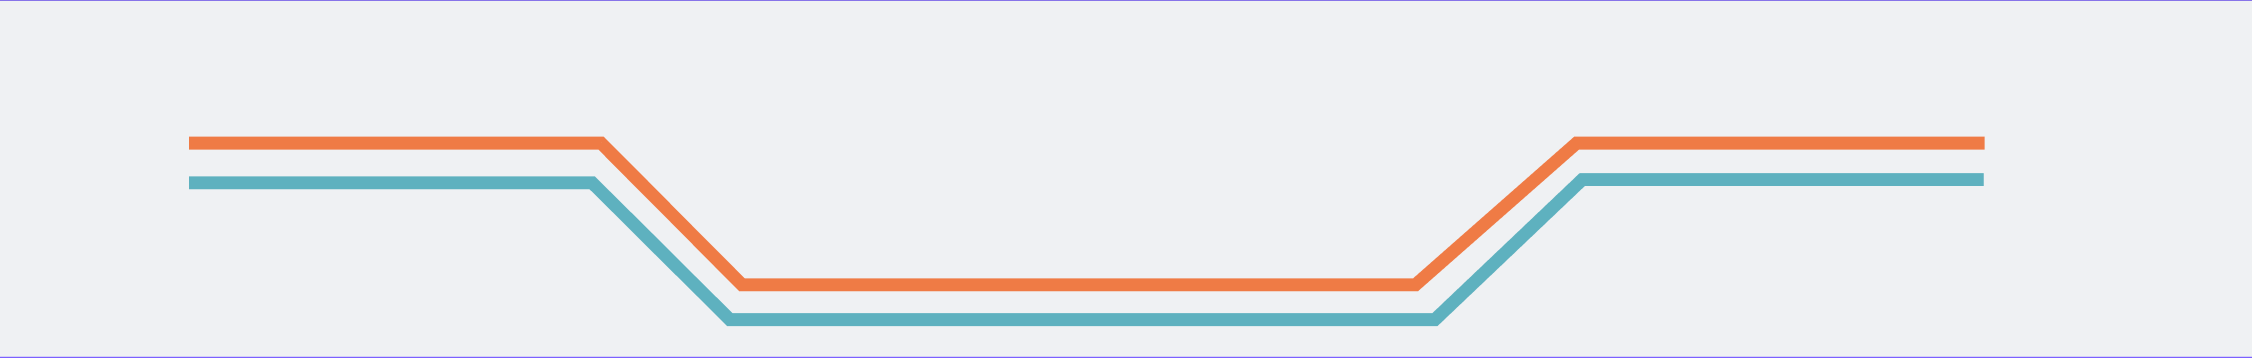
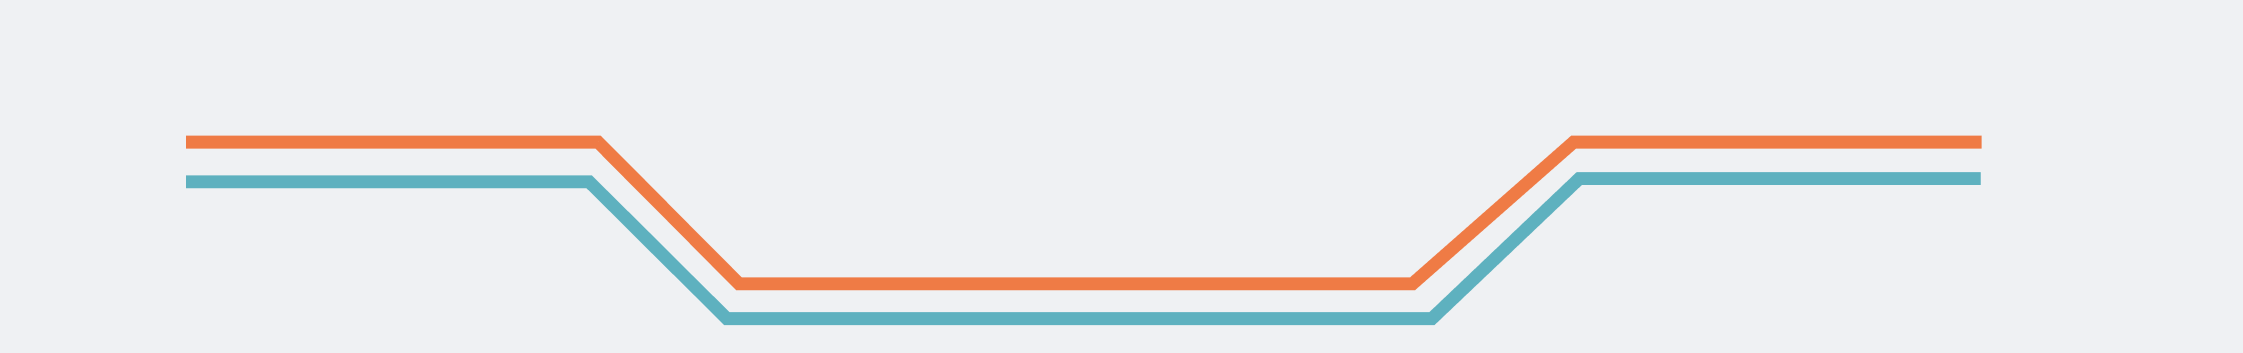
video preview on landing  page

diff --git a/src/components/LandingHeader.js b/src/components/LandingHeader.js
@@ -1,27 +1,40 @@
 import React from "react";
 import styled from "styled-components";
 import lines from "../media/images/header.png";
+import { motion } from "framer-motion";
 
 export default function LandingHeader() {
   const StyledHeader = styled.div`
     height: 240px;
     background-image: url(${lines});
-    background-size: cover;
-    font-family: "GameFont";
-    font-size: 72px;
-    color: ${props => props.theme.colors.blue};
-    font-weight: 700;
-    letter-spacing: 4px;
-    line-height: 32px;
-    text-transform: uppercase;
+    background-size: contain;
+    background-repeat: no-repeat;
     display: flex;
     justify-content: center;
     align-items: center;
   `;
 
+  const AnimatedTitle = styled(motion.h1)`
+    font-family: "GameFont";
+    color: ${props => props.theme.colors.blue};
+    font-weight: 700;
+    font-size: 64px;
+    letter-spacing: 4px;
+    text-transform: uppercase;
+    text-align: center;
+    position: absolute;
+    width: 100%;
+  `;
+
   return (
     <StyledHeader>
-      <span>Trivia-App</span>
+      <AnimatedTitle
+        animate={{ x: -20, y: 0 }}
+        transition={{ duration: 0.5, type: "spring", stiffness: 20 }}
+        initial={{ y: -600 }}
+      >
+        Trivia-App
+      </AnimatedTitle>
     </StyledHeader>
   );
 }

diff --git a/src/pages/Landing.js b/src/pages/Landing.js
@@ -1,17 +1,24 @@
 import React from "react";
 import styled from "styled-components";
 import LandingHeader from "../components/LandingHeader";
-
+import GameplayPreview from "../components/GameplayPreview";
 export default function Landing() {
   const LandingContainer = styled.div`
     height: 100vh;
     width: 100vw;
     background: ${props => props.theme.colors.white};
   `;
+  const MainContainer = styled.div`
+    padding: 120px;
+    display: flex;
+    align-items: center;
+  `;
   return (
     <LandingContainer>
       <LandingHeader />
-      landing page
+      <MainContainer>
+        <GameplayPreview />
+      </MainContainer>
     </LandingContainer>
   );
 }

diff --git a/src/App.js b/src/App.js
@@ -1,11 +1,10 @@
-import React, { useEffect } from "react";
+import React from "react";
 import { BrowserRouter as Router, Switch, Route } from "react-router-dom";
 import "./App.css";
 import Home from "./pages/Home";
 import Create from "./pages/Create";
 import Landing from "./pages/Landing";
 import NoUrlMatch from "./pages/NoUrlMatch";
-import Navbar from "./components/Navbar";
 import { ThemeProvider } from "styled-components";
 import { createGlobalStyle } from "styled-components";
 

diff --git a/src/pages/Home.js b/src/pages/Home.js
@@ -1,8 +1,7 @@
-import React, { useEffect, useState } from "react";
+import React from "react";
 import Wrapper from "../components/PageWrapper";
 import Quizzes from "../components/Quizzes";
 import Navbar from "../components/Navbar";
-import api from "../utils/api";
 
 export default function Home() {
   return (

diff --git a/src/components/GameplayPreview.js b/src/components/GameplayPreview.js
@@ -1,0 +1,11 @@
+import React from "react";
+import YouTube from "react-youtube";
+
+export default function GameplayPreview({ height, width, video }) {
+  const opts = {
+    height: "390",
+    width: "640",
+    playerVars: { autoplay: 1 },
+  };
+  return <YouTube videoId='UV9ZqzQTyCc' opts={opts} />;
+}
